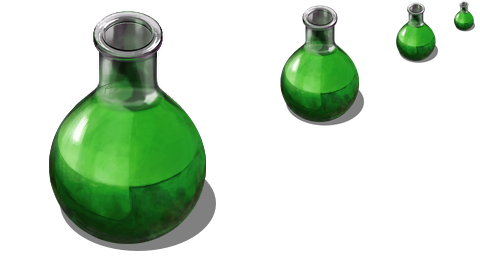
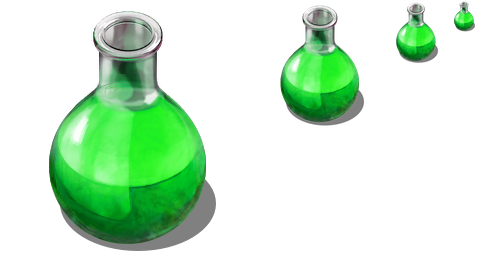
feat(graphics): Use the nuclear science texture from 'Radioactive Science' to distinguish it from green science

diff --git a/README.md b/README.md
@@ -127,7 +127,9 @@ An alternative ![](https://raw.githubusercontent.com/atanvarno69/atan-nuclear-sc
 
 Atom forge graphics from [Factorio Buildings](https://www.figma.com/proto/y1IQG08ZG2jIeJ5sTyF4MP/Factorio-Buildings), by [Hurricane046](https://mods.factorio.com/user/Hurricane046), released under the [CC BY license](https://creativecommons.org/licenses/by/4.0/).
 
-Uranium science pack graphics from [Space Age Science Packs](https://mods.factorio.com/mod/sa-science-packs), by [ArchEzekiel](https://mods.factorio.com/user/ArchEzekiel), released under the [MIT license](https://opensource.org/licenses/MIT).
+Old Uranium science pack graphics from [Space Age Science Packs](https://mods.factorio.com/mod/sa-science-packs), by [ArchEzekiel](https://mods.factorio.com/user/ArchEzekiel), released under the [MIT license](https://opensource.org/licenses/MIT).
+
+New Uranium science pack graphics from [Radioactive Science](https://github.com/daviscook477/radioactive-science/) by [Daviscook477 / Test447](https://mods.factorio.com/user/test447) released under the [MIT license](https://opensource.org/licenses/MIT).
 
 Atom forge sounds from [Pixabay](https://pixabay.com/), by xFromarge1 and Insu, released under the [Pixabay Content License](https://pixabay.com/service/license-summary/).
 
